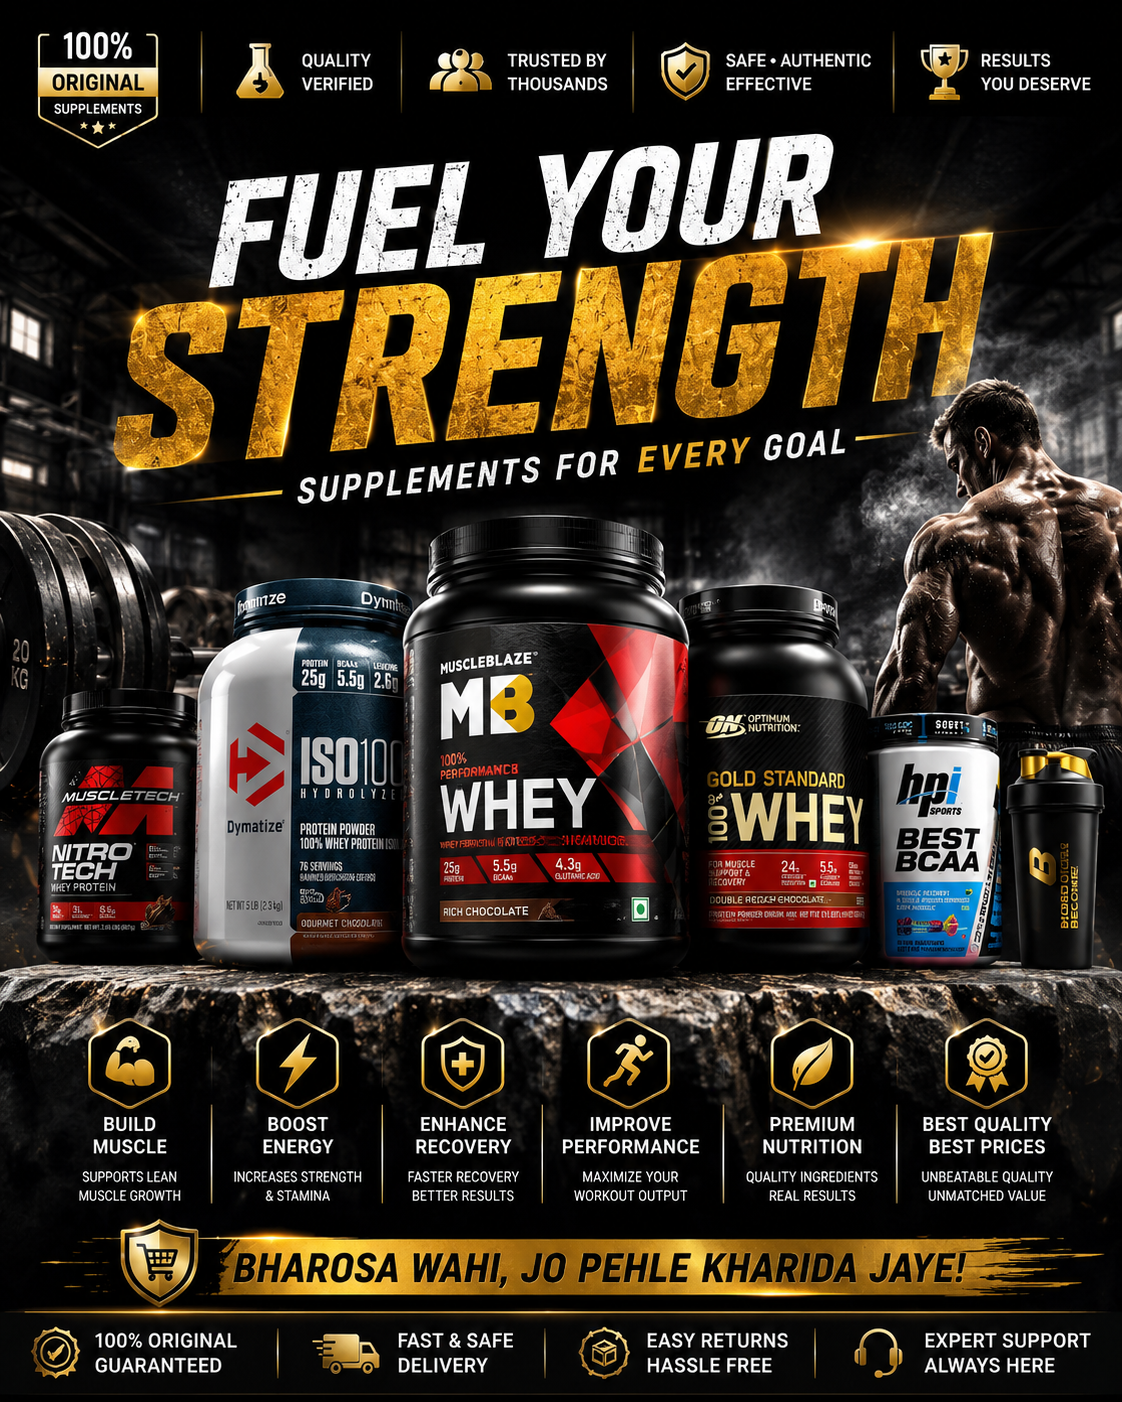
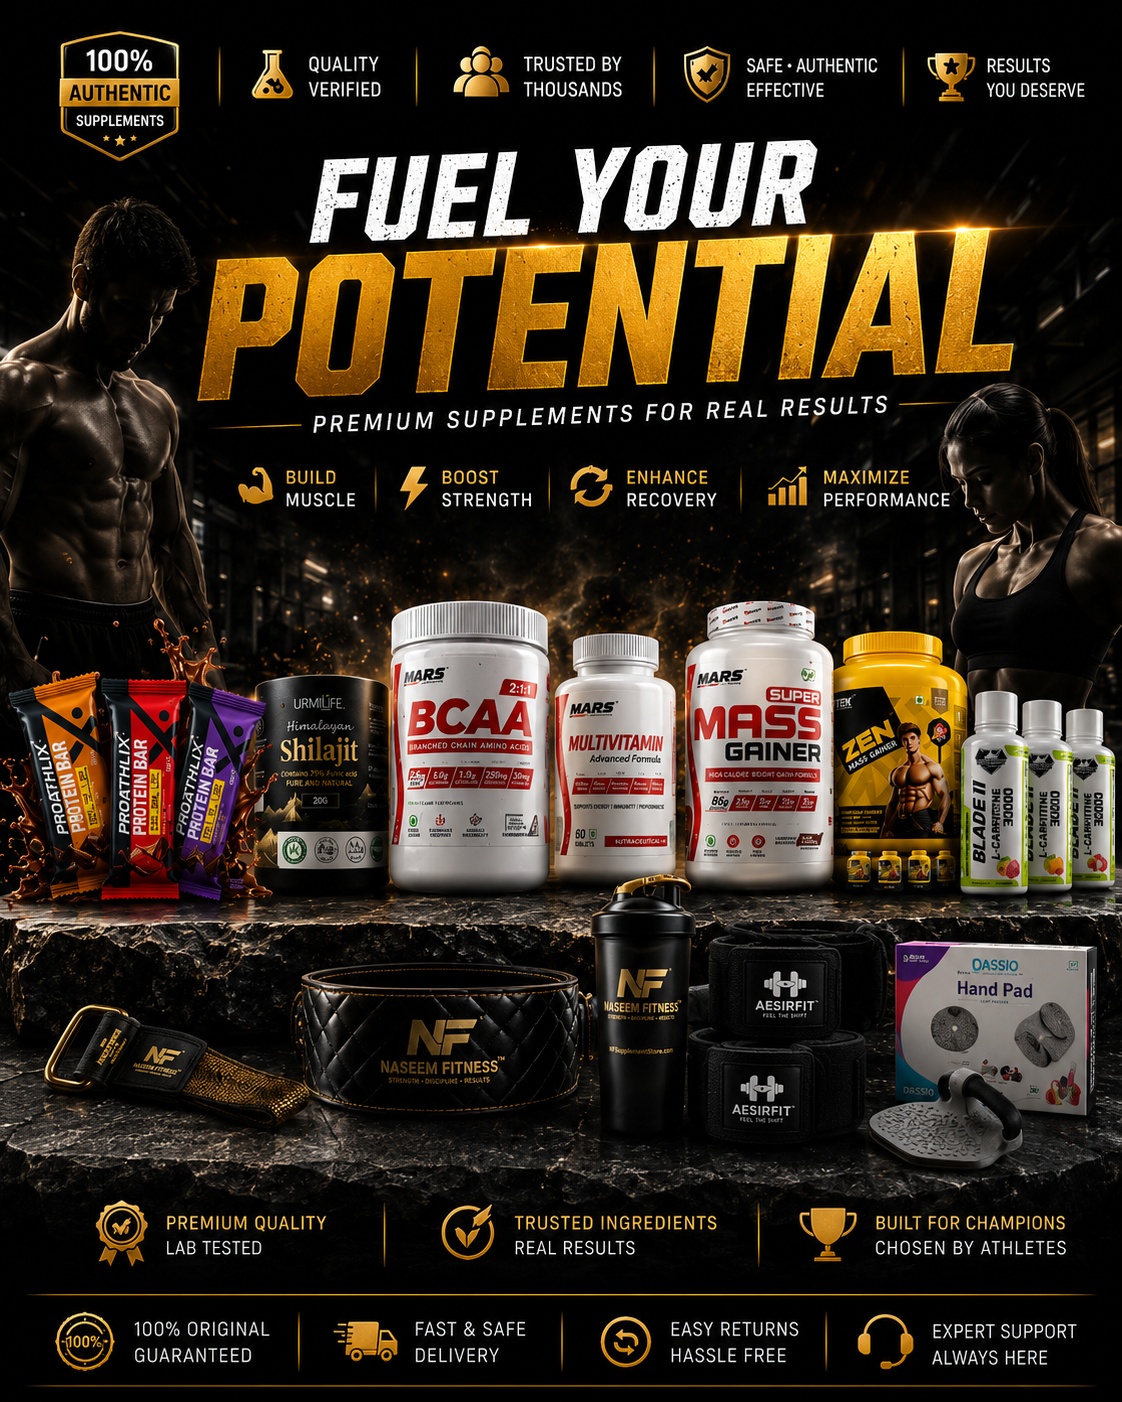
updated the files added new gymaccessories category

diff --git a/index.html b/index.html
@@ -972,6 +972,14 @@
           </div>
           <div class="cat-label"><span class="cat-icon">⚡</span> Pre-Workout</div>
         </a>
+        <a href="#products" class="cat-card-img" onclick="filterByCategory('Gym Accessories');return false;">
+          <div class="cat-img-wrap">
+            <img src="assets/categories/gym-accessories.jpg" alt="Gym Accessories"
+              onerror="this.style.display='none';this.nextElementSibling.style.display='flex';">
+            <div class="cat-img-fallback" style="display:none;">GYM ACCESSORIES<br>PHOTO GOES HERE</div>
+          </div>
+          <div class="cat-label"><span class="cat-icon">🏋</span> Gym Accessories</div>
+        </a>
       </div>
       <div id="active-category-bar" style="display:none;align-items:center;gap:12px;margin-top:20px;">
         <span style="font-size:13px;color:var(--paper-dim);">Showing:</span>

diff --git a/admin-dashboard.html b/admin-dashboard.html
@@ -1058,6 +1058,7 @@
             <option>Whey Protein</option>
             <option>Creatine</option>
             <option>Pre-Workout</option>
+            <option>Gym Accessories</option>
             <option>Multivitamin</option>
             <option>Other</option>
           </select>
